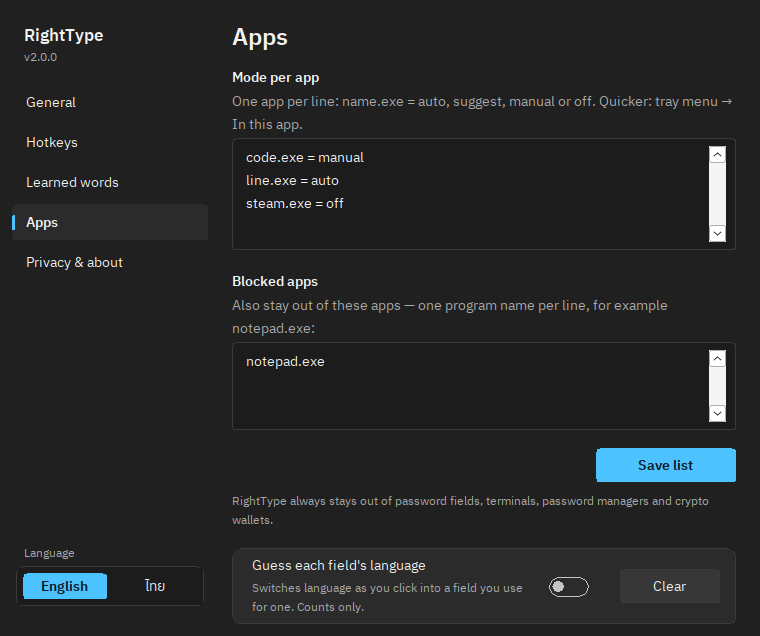
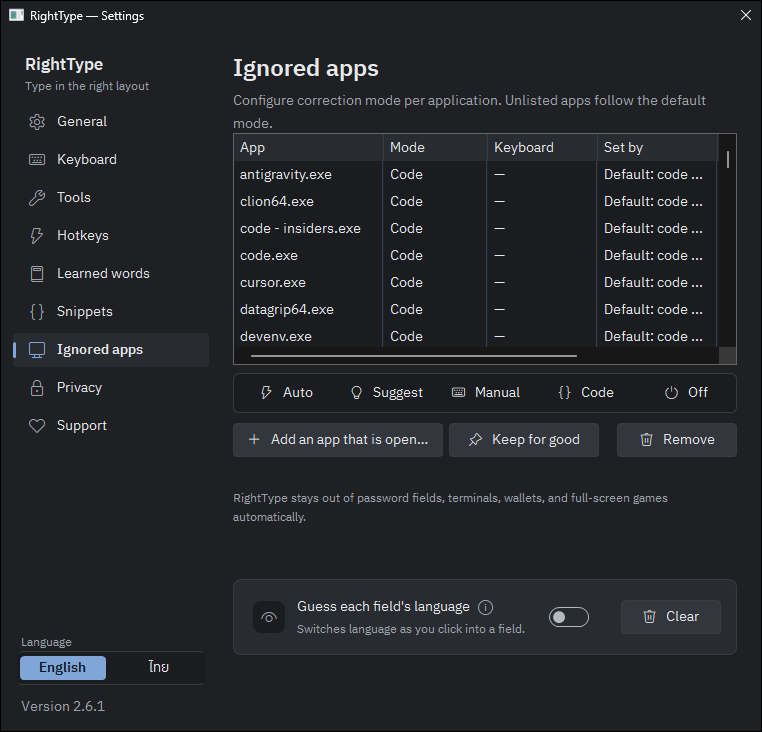
2.6.1: installer no longer force-kills the app, softer light/dark theme, refreshed screenshots
The 2.6.0 installer was flagged by antivirus software; drop its [Code]
taskkill step and rely on AppMutex. Mute the accent and greys in both
themes. A debug build can now include the palette in screenshots
(RIGHTTYPE_CAPTURE_OVERLAY).

diff --git a/src/ui.rs b/src/ui.rs
@@ -114,43 +114,43 @@ pub struct Palette {
 }
 
 const DARK: Palette = Palette {
-    bg: 0x202020,
-    surface: 0x2B2B2B,
-    surface_hover: 0x323232,
-    inset: 0x1C1C1C,
-    border: 0x3A3A3A,
-    text: 0xF3F3F3,
-    text_dim: 0xABABAB,
-    accent: 0x4CC2FF,
-    accent_hover: 0x62CBFF,
-    accent_pressed: 0x3AA6DD,
-    on_accent: 0x0B1A24,
-    button: 0x373737,
-    button_hover: 0x3F3F3F,
-    button_pressed: 0x2F2F2F,
-    toggle_off: 0xC5C5C5,
-    keycap: 0x383838,
-    keycap_border: 0x4A4A4A,
+    bg: 0x1E2024,
+    surface: 0x282B30,
+    surface_hover: 0x2F3238,
+    inset: 0x1A1C20,
+    border: 0x383C42,
+    text: 0xE6E8EB,
+    text_dim: 0x9DA3AB,
+    accent: 0x7FA6D6,
+    accent_hover: 0x92B4DE,
+    accent_pressed: 0x6990C0,
+    on_accent: 0x0F1B2A,
+    button: 0x33373D,
+    button_hover: 0x3B4046,
+    button_pressed: 0x2B2E33,
+    toggle_off: 0xB4BAC2,
+    keycap: 0x33373D,
+    keycap_border: 0x454A51,
 };
 
 const LIGHT: Palette = Palette {
-    bg: 0xF3F3F3,
+    bg: 0xF4F5F7,
     surface: 0xFFFFFF,
-    surface_hover: 0xF7F7F7,
-    inset: 0xF3F3F3,
-    border: 0xE3E3E3,
-    text: 0x1B1B1B,
-    text_dim: 0x5E5E5E,
-    accent: 0x005FB8,
-    accent_hover: 0x1A6FC0,
-    accent_pressed: 0x0B4F94,
+    surface_hover: 0xF7F8FA,
+    inset: 0xF4F5F7,
+    border: 0xE1E4E8,
+    text: 0x1E2125,
+    text_dim: 0x5B6068,
+    accent: 0x3B6EA5,
+    accent_hover: 0x335F92,
+    accent_pressed: 0x2A5079,
     on_accent: 0xFFFFFF,
-    button: 0xFBFBFB,
-    button_hover: 0xF4F4F4,
-    button_pressed: 0xEDEDED,
-    toggle_off: 0x7A7A7A,
-    keycap: 0xF7F7F7,
-    keycap_border: 0xD5D5D5,
+    button: 0xFBFBFC,
+    button_hover: 0xF3F4F6,
+    button_pressed: 0xECEEF1,
+    toggle_off: 0x7A8089,
+    keycap: 0xF7F8FA,
+    keycap_border: 0xD3D7DC,
 };
 
 static DARK_MODE: AtomicBool = AtomicBool::new(true);

diff --git a/src/palette.rs b/src/palette.rs
@@ -1405,11 +1405,15 @@ fn open_with(review: Option<Review>) {
         })
         .collect();
     ui::size_and_center(surface.hwnd, W, h);
-    unsafe {
-        let _ = windows::Win32::UI::WindowsAndMessaging::SetWindowDisplayAffinity(
-            surface.hwnd,
-            windows::Win32::UI::WindowsAndMessaging::WDA_EXCLUDEFROMCAPTURE,
-        );
+    // (Debug builds: RIGHTTYPE_CAPTURE_OVERLAY lets documentation
+    // screenshots include it.)
+    if !(cfg!(debug_assertions) && std::env::var_os("RIGHTTYPE_CAPTURE_OVERLAY").is_some()) {
+        unsafe {
+            let _ = windows::Win32::UI::WindowsAndMessaging::SetWindowDisplayAffinity(
+                surface.hwnd,
+                windows::Win32::UI::WindowsAndMessaging::WDA_EXCLUDEFROMCAPTURE,
+            );
+        }
     }
     // Next to the caret when there is one: below it, or above it when there
     // is no room below, and always inside that monitor's work area.

diff --git a/README.md b/README.md
@@ -218,15 +218,15 @@ rather than a blanket ban on every individual BIP39 word.
 (once winget has accepted the release).
 
 **Installer (recommended, per-user, no admin):** download
-`RightType-2.6.0-setup.exe` from the
+`RightType-2.6.1-setup.exe` from the
 [latest release](https://github.com/k-affan-th/RightType/releases/latest) and run it.
 It installs RightType, offers a desktop shortcut and start-at-login, and registers
 a normal Windows uninstaller (Settings -> Apps -> RightType).
 
-**Windows on ARM** (Surface Pro X, Copilot+ PCs): use `RightType-2.6.0-arm64-setup.exe`
-or `RightType-2.6.0-arm64.zip`.
+**Windows on ARM** (Surface Pro X, Copilot+ PCs): use `RightType-2.6.1-arm64-setup.exe`
+or `RightType-2.6.1-arm64.zip`.
 
-**Portable zip:** extract `RightType-2.6.0-x64.zip` and run `righttype.exe` where it
+**Portable zip:** extract `RightType-2.6.1-x64.zip` and run `righttype.exe` where it
 sits. Put an empty file named `portable` next to it and settings and learned
 words stay in a `data` folder beside it (for a USB stick) instead of
 `%APPDATA%\RightType`. Or install it per-user from the extracted folder:
@@ -242,7 +242,7 @@ powershell -ExecutionPolicy Bypass -File install.ps1 -Autostart
 - Verify what you downloaded against `SHA256.txt` before running it:
 
 ```powershell
-Get-FileHash -Algorithm SHA256 .\RightType-2.6.0-setup.exe
+Get-FileHash -Algorithm SHA256 .\RightType-2.6.1-setup.exe
 ```
 - Unsigned builds show a SmartScreen prompt — "More info → Run anyway".
   Code signing is planned for a later release.

diff --git a/CHANGELOG.md b/CHANGELOG.md
@@ -4,6 +4,19 @@ All notable changes to RightType. Versions follow [Semantic Versioning](https://
 
 ## [Unreleased]
 
+## [2.6.1] — 2026-10-24
+
+### Changed
+
+- A softer look: a muted blue accent and cooler greys in both the light and the dark theme, easier on the eyes than the bright blue.
+
+### Fixed
+
+- The installer no longer force-kills RightType (a hidden `taskkill` in its
+  script) before installing; it asks you to close the app, as 2.5.0 did. The
+  2.6.0 installer was flagged by antivirus software as a false positive, and
+  2.6.0 was withdrawn.
+
 ## [2.6.0] — 2026-10-24
 
 ### Added
